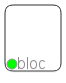
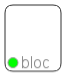
Updates

Changed region(s): [[0.0606, 0.6829, 0.9394, 0.9024]]

diff --git a/assets/shapes/index.js b/assets/shapes/index.js
@@ -4548,10 +4548,10 @@ var draw2d_circuit_hardware_BlocINPUT = draw2d.SetFigure.extend({
 
    init:function(attr, setter, getter)
    {
-     this._super( $.extend({stroke:0, bgColor:null, width:56,height:73.078125},attr), setter, getter);
+     this._super( $.extend({stroke:0, bgColor:null, width:56,height:72.27812499999982},attr), setter, getter);
      var port;
      // output_01
-     port = this.createPort("output", new draw2d.layout.locator.XYRelPortLocator(102.32785714285748, 45.157152020525984));
+     port = this.createPort("output", new draw2d.layout.locator.XYRelPortLocator(102.32785714285748, 45.65696744346935));
      port.setConnectionDirection(1);
      port.setBackgroundColor("#37B1DE");
      port.setName("output_01");
@@ -4563,7 +4563,7 @@ var draw2d_circuit_hardware_BlocINPUT = draw2d.SetFigure.extend({
    {
       var shape = this._super();
       this.originalWidth = 56;
-      this.originalHeight= 73.078125;
+      this.originalHeight= 72.27812499999982;
       return shape;
    },
 
@@ -4572,7 +4572,7 @@ var draw2d_circuit_hardware_BlocINPUT = draw2d.SetFigure.extend({
        this.canvas.paper.setStart();
 
         // BoundingBox
-        shape = this.canvas.paper.path("M0,0 L56,0 L56,73.078125 L0,73.078125");
+        shape = this.canvas.paper.path("M0,0 L56,0 L56,72.27812499999982 L0,72.27812499999982");
         shape.attr({"stroke":"none","stroke-width":0,"fill":"none"});
         shape.data("name","BoundingBox");
         
@@ -4583,12 +4583,12 @@ var draw2d_circuit_hardware_BlocINPUT = draw2d.SetFigure.extend({
         
         // indicator
         shape = this.canvas.paper.ellipse();
-        shape.attr({"rx":5,"ry":5,"cx":6.9771999999998116,"cy":59,"stroke":"#999999","stroke-width":1,"fill":"none","dasharray":null,"opacity":1});
+        shape.attr({"rx":5,"ry":5,"cx":7.9771999999998116,"cy":57.5,"stroke":"#999999","stroke-width":1,"fill":"none","dasharray":null,"opacity":1});
         shape.data("name","indicator");
         
         // Label
         shape = this.canvas.paper.text(0,0,'bloc');
-        shape.attr({"x":12.328125,"y":59.078125,"text-anchor":"start","text":"bloc","font-family":"\"Arial\"","font-size":16,"stroke":"none","fill":"#8C8C8C","stroke-scale":true,"font-weight":"normal","stroke-width":0,"opacity":1});
+        shape.attr({"x":16.328125,"y":58.27812499999982,"text-anchor":"start","text":"bloc","font-family":"\"Arial\"","font-size":16,"stroke":"none","fill":"#8C8C8C","stroke-scale":true,"font-weight":"normal","stroke-width":0,"opacity":1});
         shape.data("name","Label");
         
 

diff --git a/assets/shapes/draw2d_circuit_hardware_BlocINPUT.js b/assets/shapes/draw2d_circuit_hardware_BlocINPUT.js
@@ -11,10 +11,10 @@ var draw2d_circuit_hardware_BlocINPUT = draw2d.SetFigure.extend({
 
    init:function(attr, setter, getter)
    {
-     this._super( $.extend({stroke:0, bgColor:null, width:56,height:73.078125},attr), setter, getter);
+     this._super( $.extend({stroke:0, bgColor:null, width:56,height:72.27812499999982},attr), setter, getter);
      var port;
      // output_01
-     port = this.createPort("output", new draw2d.layout.locator.XYRelPortLocator(102.32785714285748, 45.157152020525984));
+     port = this.createPort("output", new draw2d.layout.locator.XYRelPortLocator(102.32785714285748, 45.65696744346935));
      port.setConnectionDirection(1);
      port.setBackgroundColor("#37B1DE");
      port.setName("output_01");
@@ -26,7 +26,7 @@ var draw2d_circuit_hardware_BlocINPUT = draw2d.SetFigure.extend({
    {
       var shape = this._super();
       this.originalWidth = 56;
-      this.originalHeight= 73.078125;
+      this.originalHeight= 72.27812499999982;
       return shape;
    },
 
@@ -35,7 +35,7 @@ var draw2d_circuit_hardware_BlocINPUT = draw2d.SetFigure.extend({
        this.canvas.paper.setStart();
 
         // BoundingBox
-        shape = this.canvas.paper.path("M0,0 L56,0 L56,73.078125 L0,73.078125");
+        shape = this.canvas.paper.path("M0,0 L56,0 L56,72.27812499999982 L0,72.27812499999982");
         shape.attr({"stroke":"none","stroke-width":0,"fill":"none"});
         shape.data("name","BoundingBox");
         
@@ -46,12 +46,12 @@ var draw2d_circuit_hardware_BlocINPUT = draw2d.SetFigure.extend({
         
         // indicator
         shape = this.canvas.paper.ellipse();
-        shape.attr({"rx":5,"ry":5,"cx":6.9771999999998116,"cy":59,"stroke":"#999999","stroke-width":1,"fill":"none","dasharray":null,"opacity":1});
+        shape.attr({"rx":5,"ry":5,"cx":7.9771999999998116,"cy":57.5,"stroke":"#999999","stroke-width":1,"fill":"none","dasharray":null,"opacity":1});
         shape.data("name","indicator");
         
         // Label
         shape = this.canvas.paper.text(0,0,'bloc');
-        shape.attr({"x":12.328125,"y":59.078125,"text-anchor":"start","text":"bloc","font-family":"\"Arial\"","font-size":16,"stroke":"none","fill":"#8C8C8C","stroke-scale":true,"font-weight":"normal","stroke-width":0,"opacity":1});
+        shape.attr({"x":16.328125,"y":58.27812499999982,"text-anchor":"start","text":"bloc","font-family":"\"Arial\"","font-size":16,"stroke":"none","fill":"#8C8C8C","stroke-scale":true,"font-weight":"normal","stroke-width":0,"opacity":1});
         shape.data("name","Label");
         
 
